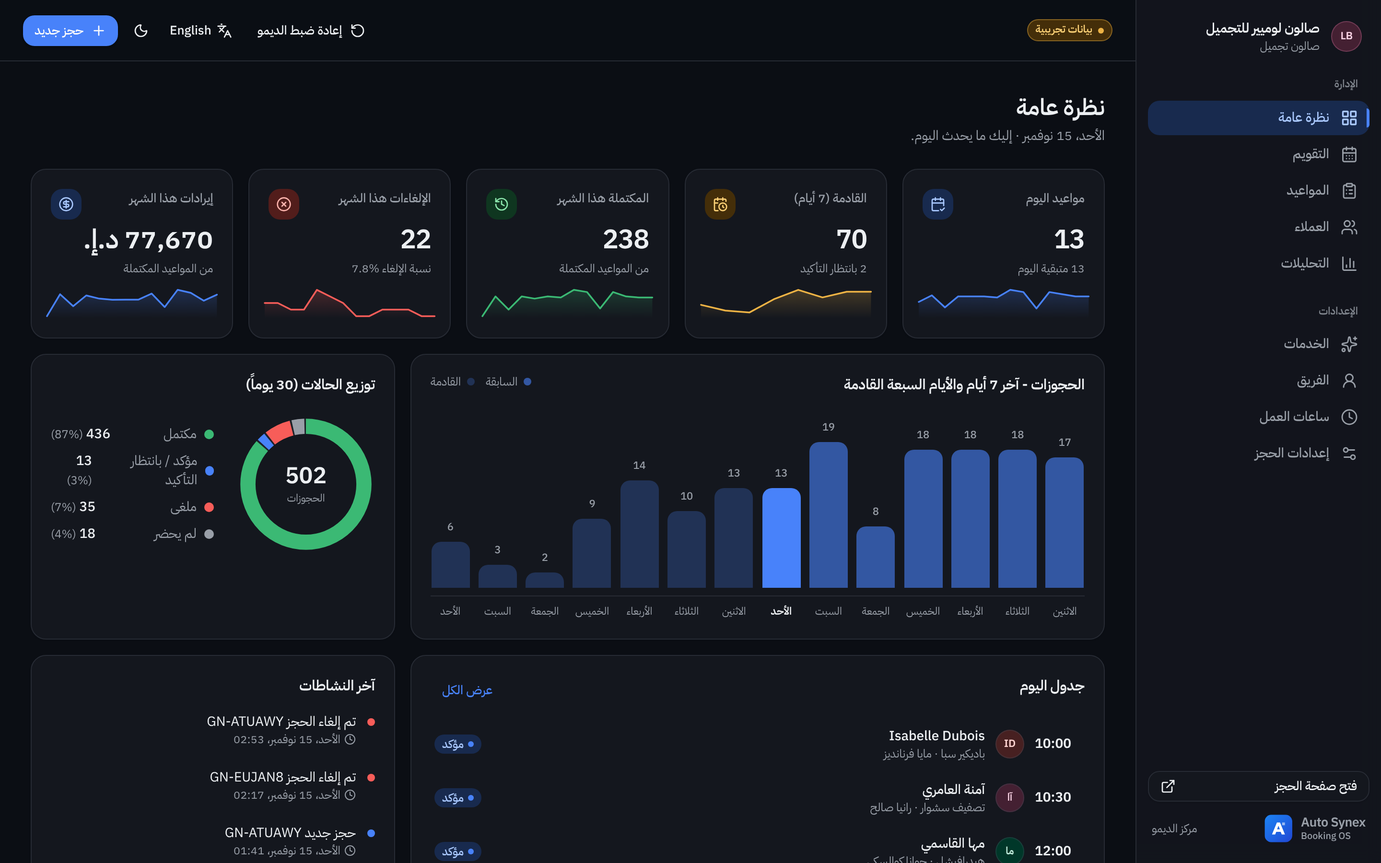
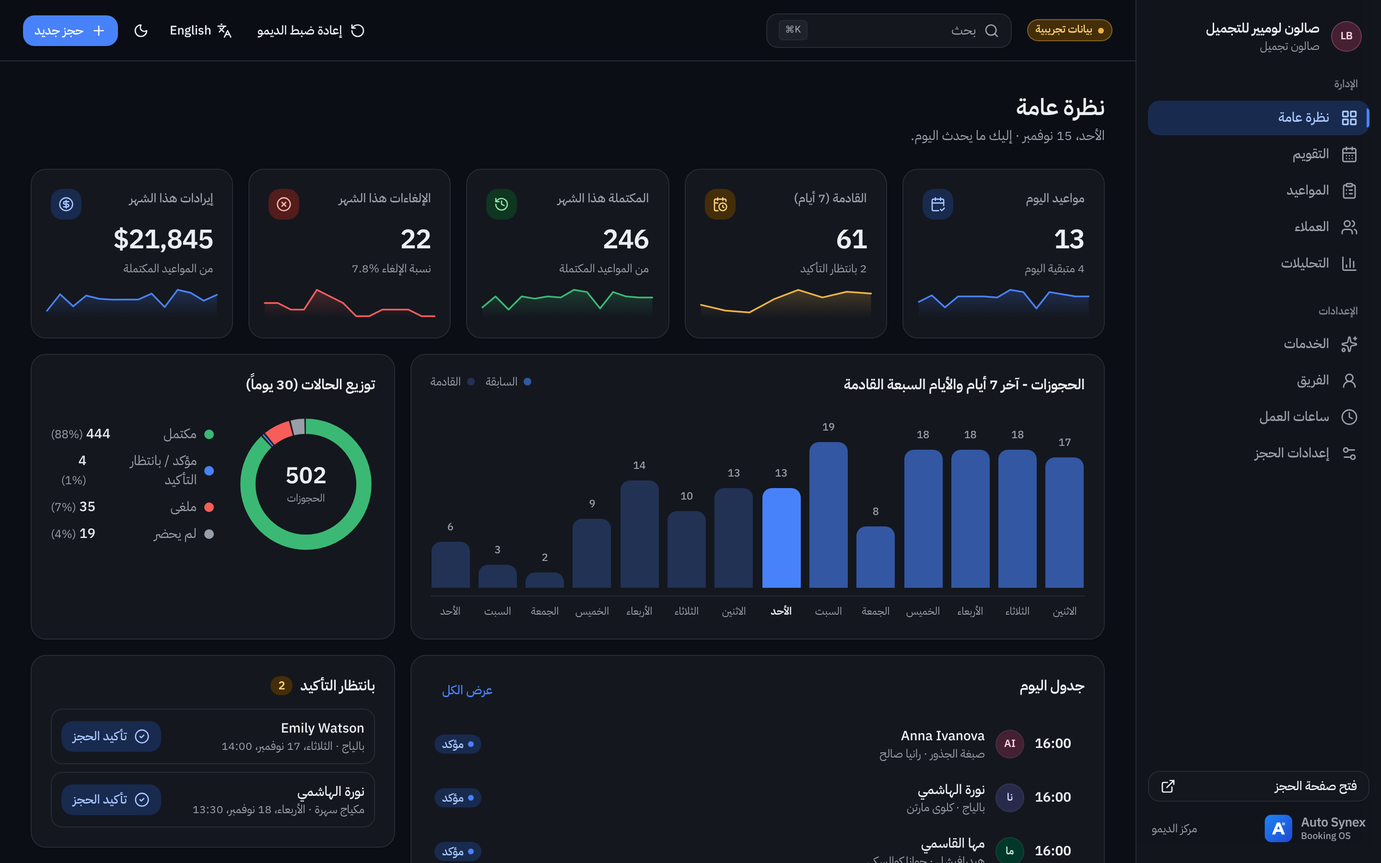
Price every demo in US dollars and fix the salon card photo
- Clinic, salon and academy now use USD (converted from AED/SAR and
  rounded to the nearest 5); all four demos share one currency.
- Amounts render as "$80" in both languages so RTL text never
  reorders the currency symbol.
- The salon card used a men's haircut close-up; it now shows a makeup
  session that reads as a beauty salon.

Claude-Session: https://claude.ai/code/session_015LG8FRipCG83gM1pdAdHGF

diff --git a/genesis/src/data/seed/salon.ts b/genesis/src/data/seed/salon.ts
@@ -8,13 +8,13 @@ export const salonSeed: IndustrySeed = {
     tagline: L("Hair, skin and nails by people who care about the details.", "الشعر والبشرة والأظافر، بأيدٍ تهتم بأدق التفاصيل."),
     industryLabel: L("Beauty salon", "صالون تجميل"),
     timezone: "Asia/Dubai",
-    currency: "AED",
+    currency: "USD",
     phone: "+971 4 555 0177",
     email: "hello@lumiere-lounge.example",
     monogram: "LB",
     hue: 350,
     branches: [{ id: "city-walk", name: L("City Walk", "سيتي ووك"), address: L("City Walk, Building 12, Dubai", "سيتي ووك، مبنى 12، دبي") }],
-    media: { cover: "/media/salon/hero.webp", card: "/media/salon/card.webp" },
+    media: { cover: "/media/salon/hero.webp", card: "/media/salon/card-beauty.webp" },
     openingHours: week({ 0: "10:00-22:00", 1: "10:00-22:00", 2: "10:00-22:00", 3: "10:00-22:00", 4: "10:00-22:00", 5: "14:00-22:00", 6: "10:00-22:00" }),
     rules: {
       slotIntervalMin: 15,
@@ -30,15 +30,15 @@ export const salonSeed: IndustrySeed = {
     customerNoun: { singular: L("Client", "عميلة"), plural: L("Clients", "العميلات") },
   },
   services: [
-    { id: "cut-blow", name: L("Haircut & blow-dry", "قص وتصفيف الشعر"), description: L("Consultation, wash, precision cut and signature blow-dry.", "استشارة وغسيل وقص دقيق وتصفيف مميز."), category: L("Hair", "الشعر"), durationMin: 60, price: 250, capacity: 1, active: true },
-    { id: "blowdry", name: L("Blow-dry", "تصفيف سشوار"), description: L("Wash and blow-dry: sleek, volume or soft waves.", "غسيل وتصفيف: ناعم أو بحجم أو تموجات خفيفة."), category: L("Hair", "الشعر"), durationMin: 45, price: 150, capacity: 1, active: true },
-    { id: "root-color", name: L("Root colour", "صبغة الجذور"), description: L("Single-process colour to refresh regrowth.", "صبغة أحادية لتجديد الجذور."), category: L("Colour", "الصبغة"), durationMin: 90, price: 380, capacity: 1, active: true },
-    { id: "balayage", name: L("Balayage", "بالياج"), description: L("Hand-painted, lived-in colour including toner and finish.", "صبغة مرسومة يدوياً بمظهر طبيعي مع التونر والتصفيف."), category: L("Colour", "الصبغة"), durationMin: 180, price: 950, capacity: 1, bufferMin: 15, active: true },
-    { id: "gel-mani", name: L("Gel manicure", "مانيكير جل"), description: L("Shape, cuticle care and long-wear gel colour.", "تشكيل والعناية بالجلد ولون جل يدوم طويلاً."), category: L("Nails", "الأظافر"), durationMin: 45, price: 140, capacity: 1, active: true },
-    { id: "spa-pedi", name: L("Spa pedicure", "باديكير سبا"), description: L("Soak, exfoliation, massage and polish.", "نقع وتقشير وتدليك وطلاء."), category: L("Nails", "الأظافر"), durationMin: 60, price: 180, capacity: 1, active: true },
-    { id: "evening-makeup", name: L("Evening makeup", "مكياج سهرة"), description: L("Full-face makeup with lashes for events.", "مكياج كامل مع رموش للمناسبات."), category: L("Makeup", "المكياج"), durationMin: 60, price: 450, capacity: 1, active: true },
-    { id: "bridal", name: L("Bridal makeup", "مكياج عروس"), description: L("Bridal look with trial notes, lashes and touch-up kit.", "إطلالة العروس مع رموش وحقيبة لمسات نهائية."), category: L("Makeup", "المكياج"), durationMin: 120, price: 1200, capacity: 1, bufferMin: 20, active: true },
-    { id: "hydrafacial", name: L("HydraFacial", "هيدرافيشل"), description: L("Deep cleanse, extraction and hydration for instant glow.", "تنظيف عميق واستخراج وترطيب لنضارة فورية."), category: L("Skin", "البشرة"), durationMin: 60, price: 550, capacity: 1, active: true },
+    { id: "cut-blow", name: L("Haircut & blow-dry", "قص وتصفيف الشعر"), description: L("Consultation, wash, precision cut and signature blow-dry.", "استشارة وغسيل وقص دقيق وتصفيف مميز."), category: L("Hair", "الشعر"), durationMin: 60, price: 70, capacity: 1, active: true },
+    { id: "blowdry", name: L("Blow-dry", "تصفيف سشوار"), description: L("Wash and blow-dry: sleek, volume or soft waves.", "غسيل وتصفيف: ناعم أو بحجم أو تموجات خفيفة."), category: L("Hair", "الشعر"), durationMin: 45, price: 40, capacity: 1, active: true },
+    { id: "root-color", name: L("Root colour", "صبغة الجذور"), description: L("Single-process colour to refresh regrowth.", "صبغة أحادية لتجديد الجذور."), category: L("Colour", "الصبغة"), durationMin: 90, price: 105, capacity: 1, active: true },
+    { id: "balayage", name: L("Balayage", "بالياج"), description: L("Hand-painted, lived-in colour including toner and finish.", "صبغة مرسومة يدوياً بمظهر طبيعي مع التونر والتصفيف."), category: L("Colour", "الصبغة"), durationMin: 180, price: 260, capacity: 1, bufferMin: 15, active: true },
+    { id: "gel-mani", name: L("Gel manicure", "مانيكير جل"), description: L("Shape, cuticle care and long-wear gel colour.", "تشكيل والعناية بالجلد ولون جل يدوم طويلاً."), category: L("Nails", "الأظافر"), durationMin: 45, price: 40, capacity: 1, active: true },
+    { id: "spa-pedi", name: L("Spa pedicure", "باديكير سبا"), description: L("Soak, exfoliation, massage and polish.", "نقع وتقشير وتدليك وطلاء."), category: L("Nails", "الأظافر"), durationMin: 60, price: 50, capacity: 1, active: true },
+    { id: "evening-makeup", name: L("Evening makeup", "مكياج سهرة"), description: L("Full-face makeup with lashes for events.", "مكياج كامل مع رموش للمناسبات."), category: L("Makeup", "المكياج"), durationMin: 60, price: 125, capacity: 1, active: true },
+    { id: "bridal", name: L("Bridal makeup", "مكياج عروس"), description: L("Bridal look with trial notes, lashes and touch-up kit.", "إطلالة العروس مع رموش وحقيبة لمسات نهائية."), category: L("Makeup", "المكياج"), durationMin: 120, price: 325, capacity: 1, bufferMin: 20, active: true },
+    { id: "hydrafacial", name: L("HydraFacial", "هيدرافيشل"), description: L("Deep cleanse, extraction and hydration for instant glow.", "تنظيف عميق واستخراج وترطيب لنضارة فورية."), category: L("Skin", "البشرة"), durationMin: 60, price: 150, capacity: 1, active: true },
   ],
   resources: [
     { id: "rania", kind: "staff", photo: "/media/team/rania.webp", name: L("Rania Saleh", "رانيا صالح"), title: L("Senior Hair Stylist", "مصففة شعر أولى"), branchId: "city-walk", hue: 350, serviceIds: ["cut-blow", "blowdry", "root-color"], weeklyHours: sameHours([6, 0, 1, 2, 3], "10:00-19:00"), active: true },

diff --git a/genesis/src/data/seed/academy.ts b/genesis/src/data/seed/academy.ts
@@ -11,7 +11,7 @@ export const academySeed: IndustrySeed = {
     tagline: L("Practical, instructor-led courses for working professionals.", "دورات عملية بإشراف مدربين للمهنيين."),
     industryLabel: L("Training academy", "أكاديمية تدريب"),
     timezone: "Asia/Riyadh",
-    currency: "SAR",
+    currency: "USD",
     phone: "+966 11 555 0190",
     email: "learn@nexus-academy.example",
     monogram: "NX",
@@ -33,12 +33,12 @@ export const academySeed: IndustrySeed = {
     customerNoun: { singular: L("Student", "متدرب"), plural: L("Students", "المتدربون") },
   },
   services: [
-    { id: "python-data", name: L("Data Analytics with Python", "تحليل البيانات باستخدام بايثون"), description: L("Hands-on workshop: pandas, visualisation and a real dataset project.", "ورشة تطبيقية: pandas والتصوير البياني ومشروع على بيانات حقيقية."), category: L("Data & AI", "البيانات والذكاء الاصطناعي"), durationMin: 180, price: 650, capacity: 16, fixedStartTimes: ["18:00"], fixedWeekdays: [0, 2], requirements: [labs], active: true },
-    { id: "ai-essentials", name: L("Generative AI for Business", "الذكاء الاصطناعي التوليدي للأعمال"), description: L("Prompting, workflows and responsible use for teams.", "صياغة الأوامر وسير العمل والاستخدام المسؤول للفرق."), category: L("Data & AI", "البيانات والذكاء الاصطناعي"), durationMin: 120, price: 480, capacity: 20, fixedStartTimes: ["10:00"], fixedWeekdays: [6, 3], requirements: [rooms], active: true },
-    { id: "pmp", name: L("PMP Exam Preparation", "التحضير لاختبار PMP"), description: L("Structured exam-prep sessions with practice questions.", "جلسات تحضير منظمة مع أسئلة تدريبية."), category: L("Management", "الإدارة"), durationMin: 120, price: 550, capacity: 20, fixedStartTimes: ["18:30"], fixedWeekdays: [1, 3], requirements: [rooms], active: true },
-    { id: "english", name: L("Business English Conversation", "محادثة الإنجليزية للأعمال"), description: L("Small-group speaking practice for meetings and presentations.", "تدريب على المحادثة في مجموعات صغيرة للاجتماعات والعروض."), category: L("Languages", "اللغات"), durationMin: 90, price: 180, capacity: 8, fixedStartTimes: ["10:00", "17:00"], requirements: [rooms], active: true },
-    { id: "ux", name: L("UX Design Fundamentals", "أساسيات تصميم تجربة المستخدم"), description: L("Research, wireframes and usability testing in Figma.", "البحث والنماذج الأولية واختبار قابلية الاستخدام في Figma."), category: L("Design", "التصميم"), durationMin: 150, price: 590, capacity: 12, fixedStartTimes: ["16:00"], fixedWeekdays: [0, 4], requirements: [labs], active: true },
-    { id: "coaching", name: L("1:1 Career Coaching", "إرشاد مهني فردي"), description: L("Private session: CV review, interview practice and a growth plan.", "جلسة خاصة: مراجعة السيرة الذاتية وتدريب المقابلات وخطة تطوير."), category: L("Coaching", "الإرشاد"), durationMin: 60, price: 400, capacity: 1, bufferMin: 0, active: true },
+    { id: "python-data", name: L("Data Analytics with Python", "تحليل البيانات باستخدام بايثون"), description: L("Hands-on workshop: pandas, visualisation and a real dataset project.", "ورشة تطبيقية: pandas والتصوير البياني ومشروع على بيانات حقيقية."), category: L("Data & AI", "البيانات والذكاء الاصطناعي"), durationMin: 180, price: 175, capacity: 16, fixedStartTimes: ["18:00"], fixedWeekdays: [0, 2], requirements: [labs], active: true },
+    { id: "ai-essentials", name: L("Generative AI for Business", "الذكاء الاصطناعي التوليدي للأعمال"), description: L("Prompting, workflows and responsible use for teams.", "صياغة الأوامر وسير العمل والاستخدام المسؤول للفرق."), category: L("Data & AI", "البيانات والذكاء الاصطناعي"), durationMin: 120, price: 130, capacity: 20, fixedStartTimes: ["10:00"], fixedWeekdays: [6, 3], requirements: [rooms], active: true },
+    { id: "pmp", name: L("PMP Exam Preparation", "التحضير لاختبار PMP"), description: L("Structured exam-prep sessions with practice questions.", "جلسات تحضير منظمة مع أسئلة تدريبية."), category: L("Management", "الإدارة"), durationMin: 120, price: 145, capacity: 20, fixedStartTimes: ["18:30"], fixedWeekdays: [1, 3], requirements: [rooms], active: true },
+    { id: "english", name: L("Business English Conversation", "محادثة الإنجليزية للأعمال"), description: L("Small-group speaking practice for meetings and presentations.", "تدريب على المحادثة في مجموعات صغيرة للاجتماعات والعروض."), category: L("Languages", "اللغات"), durationMin: 90, price: 50, capacity: 8, fixedStartTimes: ["10:00", "17:00"], requirements: [rooms], active: true },
+    { id: "ux", name: L("UX Design Fundamentals", "أساسيات تصميم تجربة المستخدم"), description: L("Research, wireframes and usability testing in Figma.", "البحث والنماذج الأولية واختبار قابلية الاستخدام في Figma."), category: L("Design", "التصميم"), durationMin: 150, price: 155, capacity: 12, fixedStartTimes: ["16:00"], fixedWeekdays: [0, 4], requirements: [labs], active: true },
+    { id: "coaching", name: L("1:1 Career Coaching", "إرشاد مهني فردي"), description: L("Private session: CV review, interview practice and a growth plan.", "جلسة خاصة: مراجعة السيرة الذاتية وتدريب المقابلات وخطة تطوير."), category: L("Coaching", "الإرشاد"), durationMin: 60, price: 105, capacity: 1, bufferMin: 0, active: true },
   ],
   resources: [
     { id: "faisal", kind: "staff", name: L("Eng. Faisal Al-Otaibi", "م. فيصل العتيبي"), title: L("Data & AI Lead Trainer", "كبير مدربي البيانات والذكاء الاصطناعي"), branchId: "olaya", hue: 230, serviceIds: ["python-data", "ai-essentials", "coaching"], weeklyHours: week({ 0: "14:00-22:00", 2: "14:00-22:00", 3: "09:00-17:00", 6: "10:00-18:00" }), active: true },

diff --git a/genesis/src/data/seed/clinic.ts b/genesis/src/data/seed/clinic.ts
@@ -10,7 +10,7 @@ export const clinicSeed: IndustrySeed = {
     tagline: L("Family medicine and specialist care, without the wait.", "طب الأسرة والرعاية التخصصية، بلا انتظار."),
     industryLabel: L("Medical clinic", "عيادة طبية"),
     timezone: "Asia/Dubai",
-    currency: "AED",
+    currency: "USD",
     phone: "+971 4 555 0142",
     email: "care@alnakheel-clinic.example",
     monogram: "AN",
@@ -35,12 +35,12 @@ export const clinicSeed: IndustrySeed = {
     customerNoun: { singular: L("Patient", "مريض"), plural: L("Patients", "المرضى") },
   },
   services: [
-    { id: "gp", name: L("General consultation", "استشارة طب عام"), description: L("Assessment, diagnosis and treatment plan with a family physician.", "تقييم وتشخيص وخطة علاج مع طبيب الأسرة."), category: L("Family medicine", "طب الأسرة"), durationMin: 20, price: 300, capacity: 1, active: true },
-    { id: "follow-up", name: L("Follow-up visit", "زيارة متابعة"), description: L("Review results and adjust treatment within 30 days of a visit.", "مراجعة النتائج وتعديل العلاج خلال 30 يوماً من الزيارة."), category: L("Family medicine", "طب الأسرة"), durationMin: 15, price: 150, capacity: 1, active: true },
-    { id: "derma", name: L("Dermatology consultation", "استشارة جلدية"), description: L("Skin, hair and nail concerns assessed by a consultant dermatologist.", "تقييم مشاكل البشرة والشعر والأظافر مع استشاري جلدية."), category: L("Specialists", "التخصصات"), durationMin: 30, price: 450, capacity: 1, active: true },
-    { id: "peds", name: L("Paediatric check-up", "فحص الأطفال"), description: L("Growth review, vaccinations advice and general check for children.", "متابعة النمو والاستشارة حول التطعيمات وفحص عام للأطفال."), category: L("Specialists", "التخصصات"), durationMin: 30, price: 350, capacity: 1, active: true },
-    { id: "ortho", name: L("Orthopaedic assessment", "تقييم العظام"), description: L("Joint, back and sports-injury assessment with treatment options.", "تقييم المفاصل والظهر والإصابات الرياضية مع خيارات العلاج."), category: L("Specialists", "التخصصات"), durationMin: 40, price: 550, capacity: 1, bufferMin: 10, active: true },
-    { id: "checkup", name: L("Comprehensive health check", "فحص صحي شامل"), description: L("Full physical exam, vitals and a personalised prevention plan.", "فحص سريري كامل والعلامات الحيوية وخطة وقائية مخصصة."), category: L("Preventive care", "الرعاية الوقائية"), durationMin: 60, price: 900, capacity: 1, bufferMin: 10, active: true },
+    { id: "gp", name: L("General consultation", "استشارة طب عام"), description: L("Assessment, diagnosis and treatment plan with a family physician.", "تقييم وتشخيص وخطة علاج مع طبيب الأسرة."), category: L("Family medicine", "طب الأسرة"), durationMin: 20, price: 80, capacity: 1, active: true },
+    { id: "follow-up", name: L("Follow-up visit", "زيارة متابعة"), description: L("Review results and adjust treatment within 30 days of a visit.", "مراجعة النتائج وتعديل العلاج خلال 30 يوماً من الزيارة."), category: L("Family medicine", "طب الأسرة"), durationMin: 15, price: 40, capacity: 1, active: true },
+    { id: "derma", name: L("Dermatology consultation", "استشارة جلدية"), description: L("Skin, hair and nail concerns assessed by a consultant dermatologist.", "تقييم مشاكل البشرة والشعر والأظافر مع استشاري جلدية."), category: L("Specialists", "التخصصات"), durationMin: 30, price: 125, capacity: 1, active: true },
+    { id: "peds", name: L("Paediatric check-up", "فحص الأطفال"), description: L("Growth review, vaccinations advice and general check for children.", "متابعة النمو والاستشارة حول التطعيمات وفحص عام للأطفال."), category: L("Specialists", "التخصصات"), durationMin: 30, price: 95, capacity: 1, active: true },
+    { id: "ortho", name: L("Orthopaedic assessment", "تقييم العظام"), description: L("Joint, back and sports-injury assessment with treatment options.", "تقييم المفاصل والظهر والإصابات الرياضية مع خيارات العلاج."), category: L("Specialists", "التخصصات"), durationMin: 40, price: 150, capacity: 1, bufferMin: 10, active: true },
+    { id: "checkup", name: L("Comprehensive health check", "فحص صحي شامل"), description: L("Full physical exam, vitals and a personalised prevention plan.", "فحص سريري كامل والعلامات الحيوية وخطة وقائية مخصصة."), category: L("Preventive care", "الرعاية الوقائية"), durationMin: 60, price: 245, capacity: 1, bufferMin: 10, active: true },
   ],
   resources: [
     { id: "dr-layla", kind: "staff", photo: "/media/team/dr-layla.webp", name: L("Dr. Layla Haddad", "د. ليلى حداد"), title: L("Family Physician", "طبيبة أسرة"), branchId: "jumeirah", hue: 195, serviceIds: ["gp", "follow-up", "checkup"], weeklyHours: sameHours([...satToThu], "08:00-16:00"), active: true },

diff --git a/genesis/src/components/hub/demo-hub.tsx b/genesis/src/components/hub/demo-hub.tsx
@@ -11,7 +11,6 @@ import { Avatar } from "@/components/ui/avatar";
 import { Button } from "@/components/ui/button";
 import { industryIcons } from "@/config/industry-icons";
 import { listDemoTenants, type TenantSummary } from "@/data/tenant-directory";
-import { intlLocale } from "@/i18n/config";
 import { useI18n } from "@/i18n/provider";
 import { cn, hueStyle } from "@/lib/utils";
 import { CountUp, HeroVisual, Reveal, ThemeCompare } from "./motion-bits";
@@ -239,10 +238,10 @@ function TeamStack() {
 }
 
 function IndustryCard({ tenant }: { tenant: TenantSummary }) {
-  const { t, tx, locale } = useI18n();
+  const { t, tx } = useI18n();
   const Icon = industryIcons[tenant.id];
   const b = tenant.business;
-  const money = useMemo(() => new Intl.NumberFormat(intlLocale(locale), { style: "currency", currency: b.currency, maximumFractionDigits: 0 }), [locale, b.currency]);
+  const money = useMemo(() => new Intl.NumberFormat("en-US", { style: "currency", currency: b.currency, currencyDisplay: "narrowSymbol", maximumFractionDigits: 0 }), [b.currency]);
 
   return (
     <article style={hueStyle(b.hue)} className="lane group flex h-full flex-col overflow-hidden rounded-2xl border bg-card shadow-xs transition-[box-shadow,transform] duration-500 hover:-translate-y-1 hover:shadow-lg">

diff --git a/genesis/src/hooks/use-format.ts b/genesis/src/hooks/use-format.ts
@@ -23,8 +23,9 @@ export function useFormat(timeZone: string, currency: string) {
       }
       return f;
     };
-    const money = new Intl.NumberFormat(loc, { style: "currency", currency, maximumFractionDigits: 0 });
-    const compactMoney = new Intl.NumberFormat(loc, { style: "currency", currency, notation: "compact", maximumFractionDigits: 1 });
+    // Amounts use one Latin format ("$1,250") in both languages so RTL text never reorders the symbol.
+    const money = new Intl.NumberFormat("en-US", { style: "currency", currency, currencyDisplay: "narrowSymbol", maximumFractionDigits: 0 });
+    const compactMoney = new Intl.NumberFormat("en-US", { style: "currency", currency, currencyDisplay: "narrowSymbol", notation: "compact", maximumFractionDigits: 1 });
     const number = new Intl.NumberFormat(loc);
     const percent = new Intl.NumberFormat(loc, { style: "percent", maximumFractionDigits: 1 });
     const keyToDate = (key: DateKey) => zonedToInstant(key, "12:00", timeZone);

diff --git a/genesis/src/data/seed/generate.ts b/genesis/src/data/seed/generate.ts
@@ -18,7 +18,7 @@ import type {
 } from "@/domain/types";
 import type { IndustrySeed } from "./types";
 
-export const SNAPSHOT_VERSION = 7;
+export const SNAPSHOT_VERSION = 8;
 
 export function mulberry32(seed: number) {
   let a = seed >>> 0;

diff --git a/genesis/README.md b/genesis/README.md
@@ -62,9 +62,9 @@ In the dashboard, press **Ctrl/⌘ + K** to search bookings, customers and pages
 
 | Industry | Business | Time zone / currency | Highlights |
 | --- | --- | --- | --- |
-| Clinic | Al Nakheel Medical Clinic | Asia/Dubai · AED | 5 doctors, 2 branches, 15-min slots |
-| Salon | Lumière Beauty Lounge | Asia/Dubai · AED | 5 stylists, 9 services with 45–180 min durations |
-| Academy | Nexus Training Academy | Asia/Riyadh · SAR | Group sessions with seat capacity, classrooms/labs, manual approval |
+| Clinic | Al Nakheel Medical Clinic | Asia/Dubai · USD | 5 doctors, 2 branches, 15-min slots |
+| Salon | Lumière Beauty Lounge | Asia/Dubai · USD | 5 stylists, 9 services with 45–180 min durations |
+| Academy | Nexus Training Academy | Asia/Riyadh · USD | Group sessions with seat capacity, classrooms/labs, manual approval |
 | Studio | Cedar Light Studio | Asia/Beirut (DST) · USD | Studios + lighting kits + drone as allocatable resources |
 
 ### Booking rules enforced
